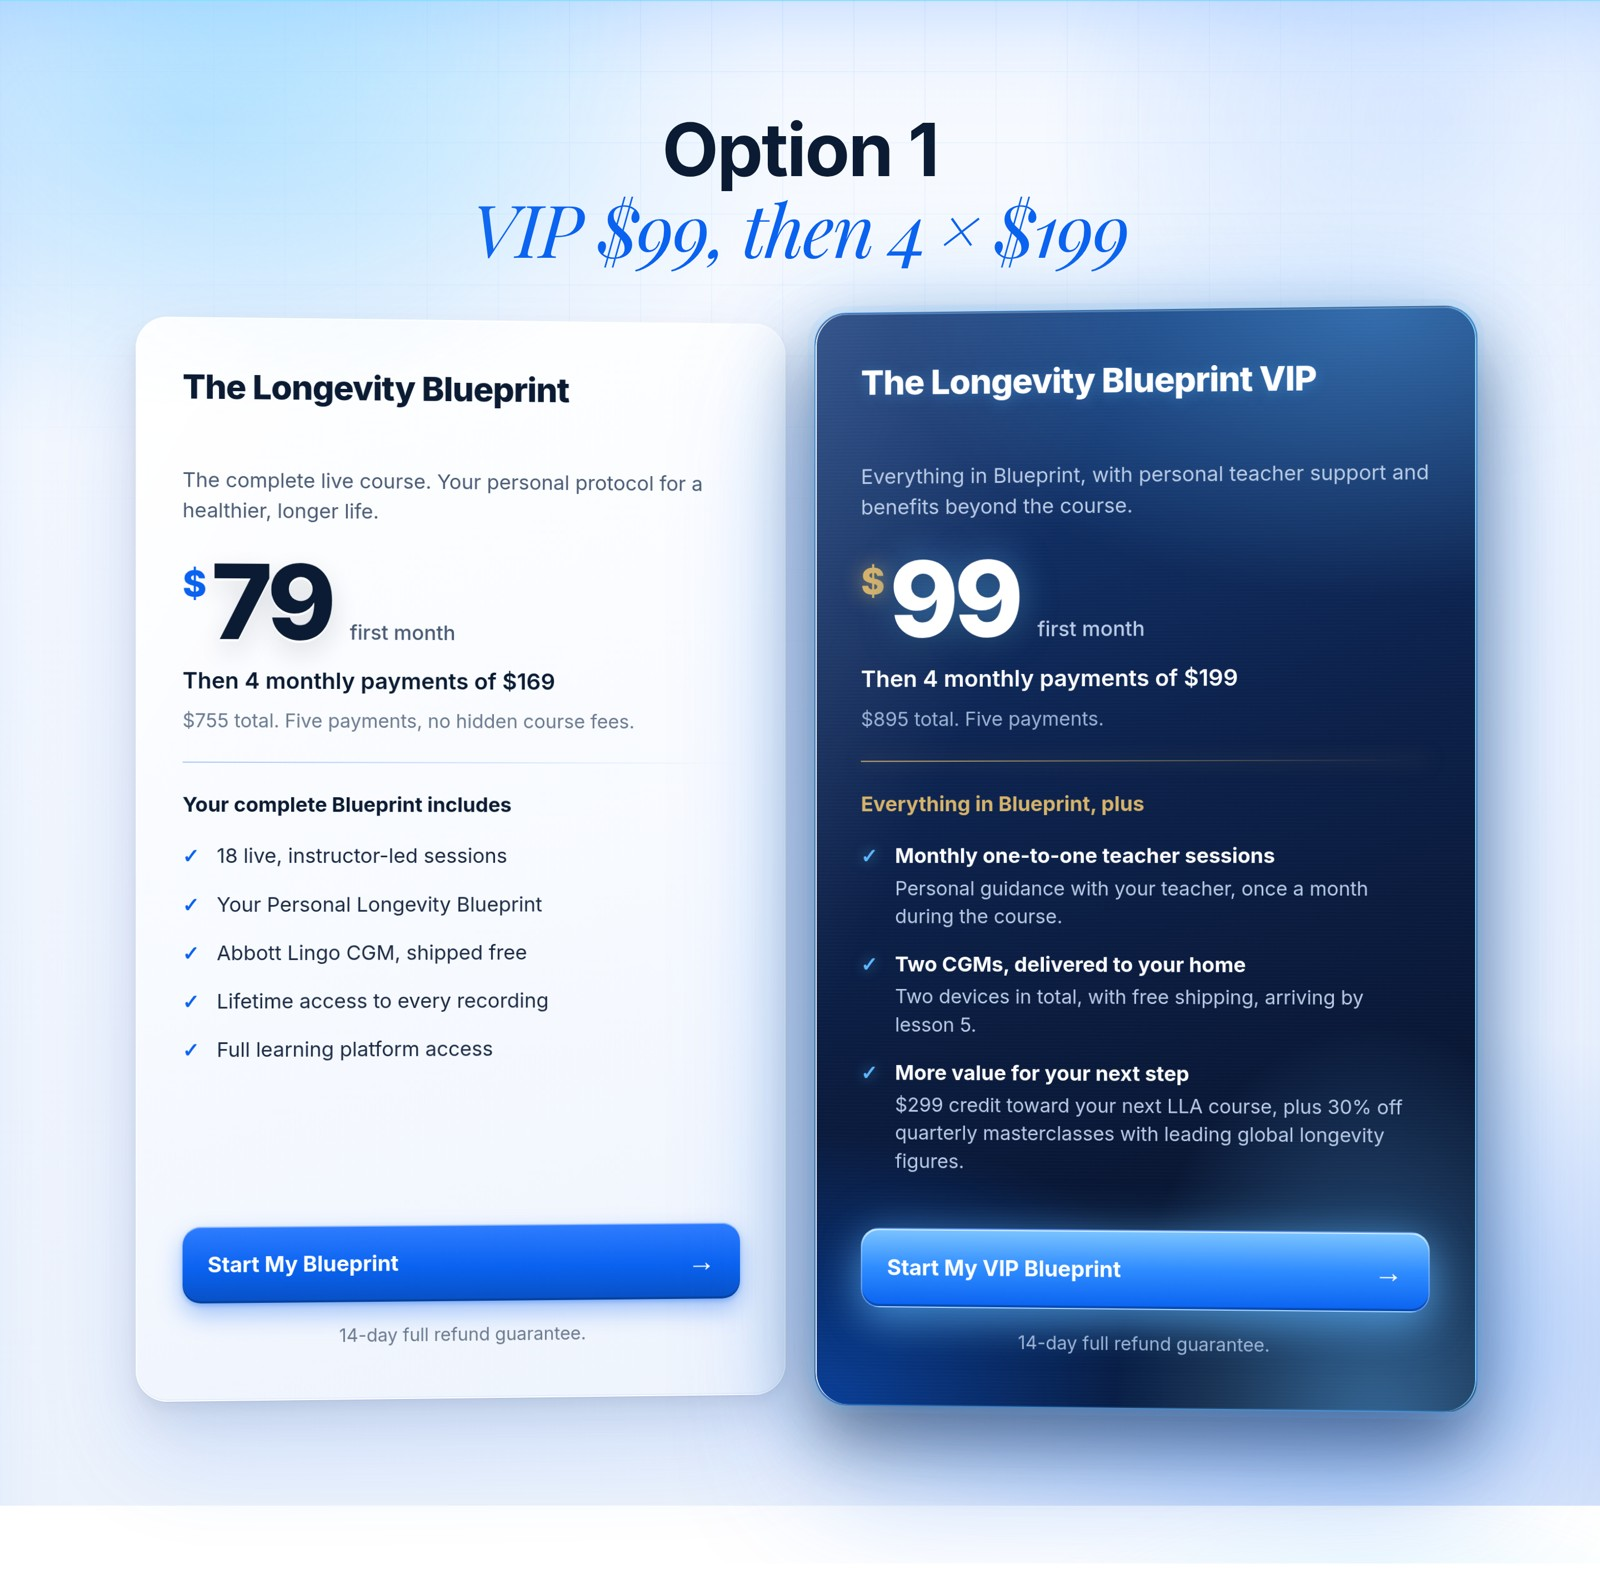
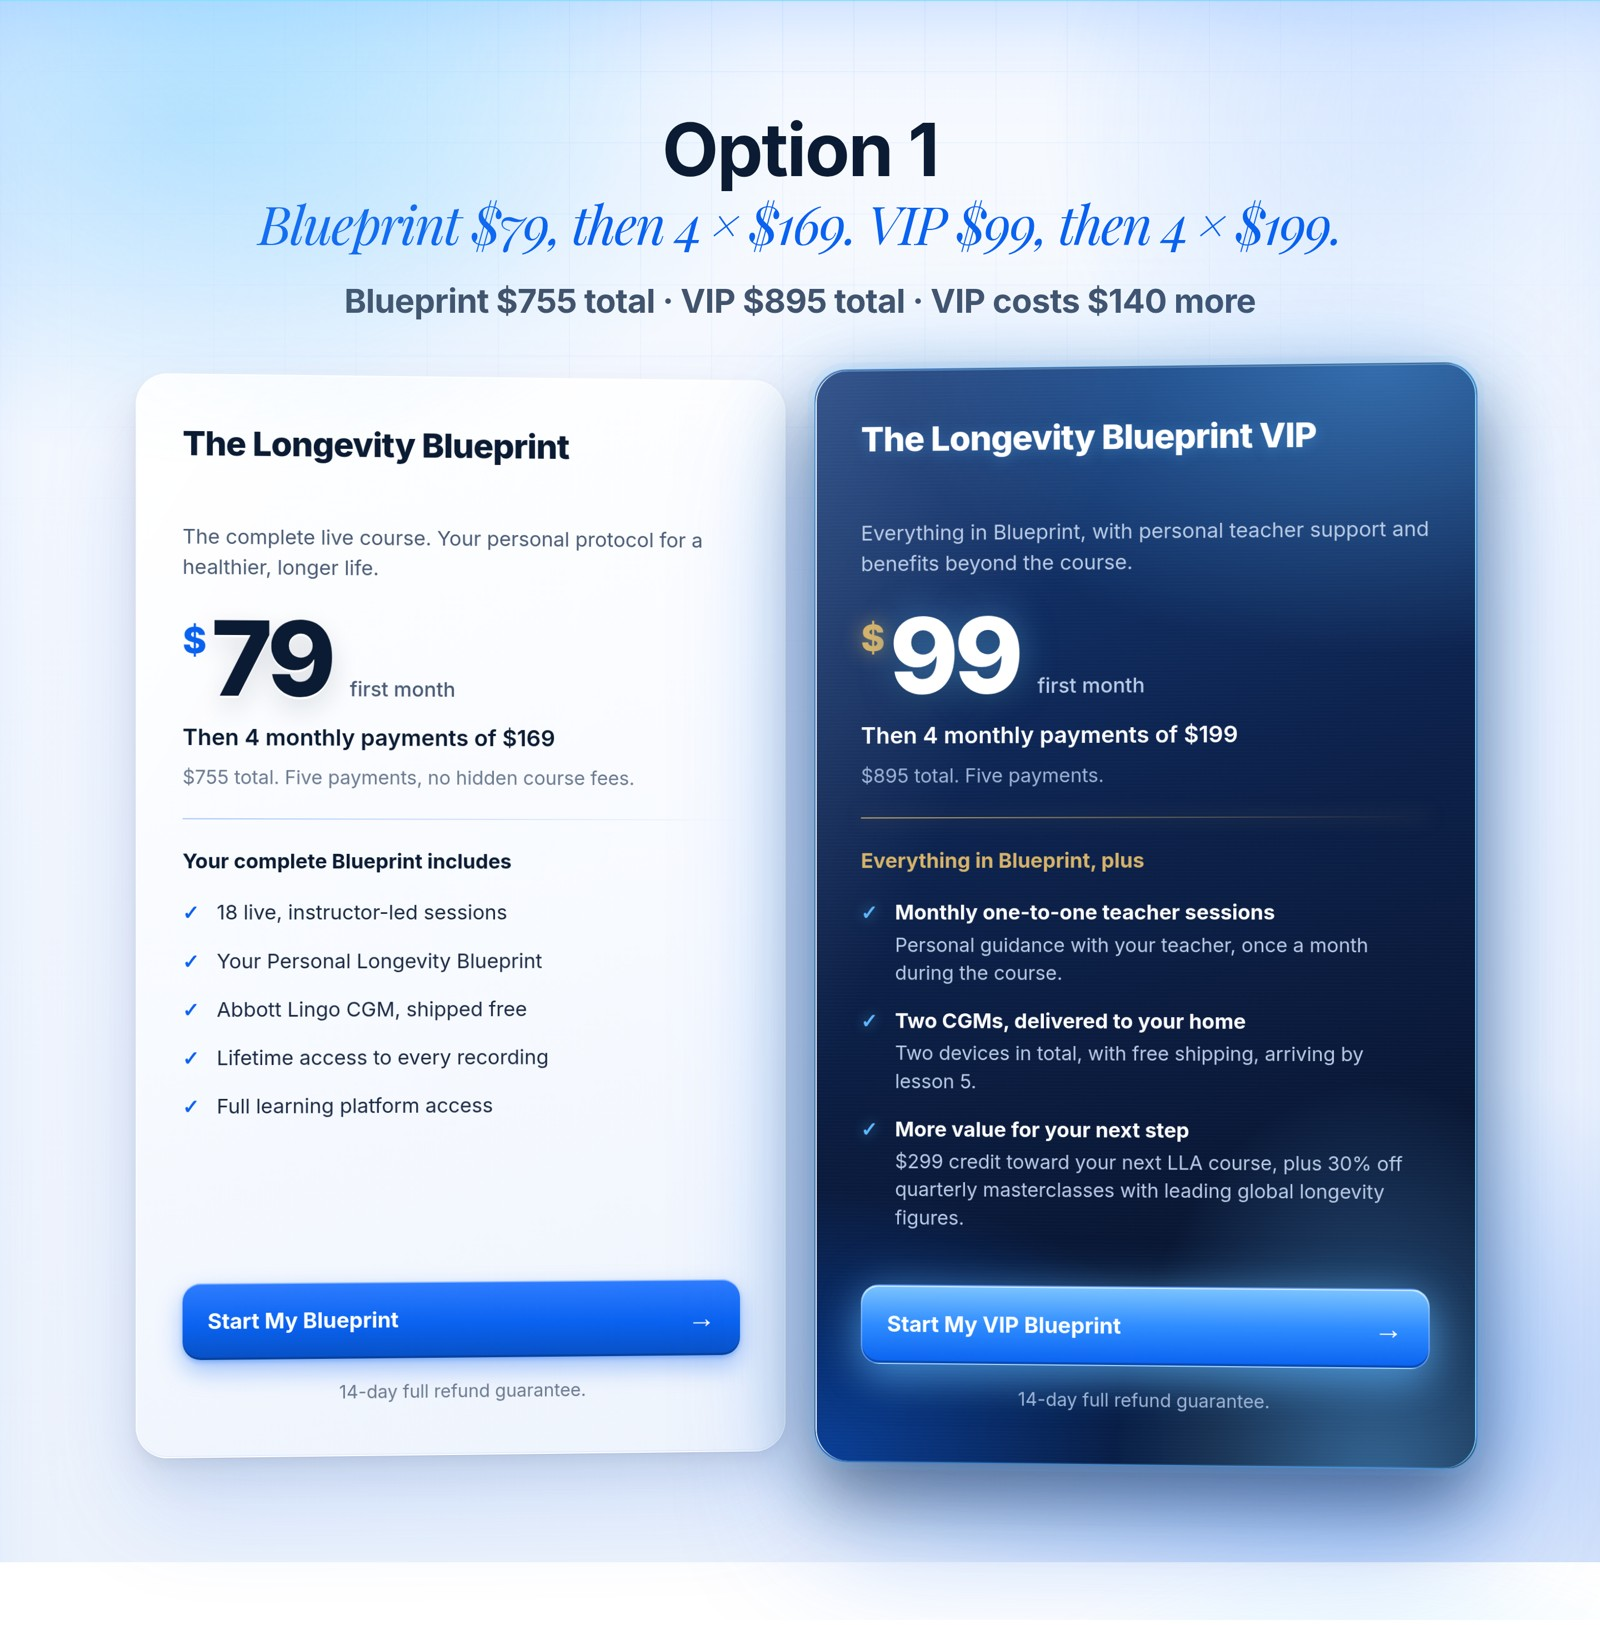
headlines: full pricing wording, totals and difference per option

Changed region(s): [[0.0625, 0.0625, 0.9375, 0.9057], [0.0938, 0.7808, 0.4688, 0.9057]]

diff --git a/options/index.html b/options/index.html
@@ -1780,7 +1780,7 @@ body.lla-em-open #et-bumpyard-widget{display:none!important}
   html body#lpRoot #hero .pdp-cine-sub{font-family:'Inter',sans-serif!important;font-style:normal!important;text-transform:none!important}
 }
 </style>
-<link rel="stylesheet" href="../relaunch.css?v=vip199"><style id="opt-only">body>*:not(section.bp-offer):not(script):not(style){display:none!important}body>section.bp-offer{display:block!important}.bp-foot{display:none!important}[class^="lla-cta"],.lla-cta,#llaCta,.lla-sticky-cta,.lla-float-cta,#llaFloatCta,[id^="llaFloat"],.lla-float-cta--home{display:none!important;visibility:hidden!important}</style><link rel="stylesheet" href="../compare/premium.css?v=p4"></head>
+<link rel="stylesheet" href="../relaunch.css?v=vip199"><style id="opt-only">body>*:not(section.bp-offer):not(script):not(style){display:none!important}body>section.bp-offer{display:block!important}.bp-foot{display:none!important}.opt-sum{font-size:clamp(22px,2.2vw,30px)!important;font-weight:700;color:#0B1B33;margin:18px auto 0;text-align:center;letter-spacing:-.4px;max-width:none!important;white-space:nowrap}.bp-heading h2 em{display:block;font-size:.72em;margin-top:6px}[class^="lla-cta"],.lla-cta,#llaCta,.lla-sticky-cta,.lla-float-cta,#llaFloatCta,[id^="llaFloat"],.lla-float-cta--home{display:none!important;visibility:hidden!important}</style><link rel="stylesheet" href="../compare/premium.css?v=p4"></head>
 <body id="lpRoot">
 <!-- Google Tag Manager (noscript) -->
 
@@ -2580,7 +2580,7 @@ var vids=r.querySelectorAll('video');if('IntersectionObserver' in window){var io
 <section id="offer" data-option="1" class="bp-offer fn-section pr-light is-light">
  <div class="bp-wrap">
   <div class="bp-heading">
-   <h2>Option 1<br><em>VIP $99, then 4 × $199</em></h2>
+   <h2>Option 1<br><em>Blueprint $79, then 4 × $169. VIP $99, then 4 × $199.</em></h2><p class="opt-sum">Blueprint $755 total · VIP $895 total · VIP costs $140 more</p>
    
   </div>
   <div class="bp-grid">
@@ -2624,7 +2624,7 @@ var vids=r.querySelectorAll('video');if('IntersectionObserver' in window){var io
 </section><section id="offer" data-option="2" class="bp-offer fn-section pr-light is-light">
  <div class="bp-wrap">
   <div class="bp-heading">
-   <h2>Option 2<br><em>VIP $129, then 4 × $229</em></h2>
+   <h2>Option 2<br><em>Blueprint $79, then 4 × $169. VIP $129, then 4 × $229.</em></h2><p class="opt-sum">Blueprint $755 total · VIP $1,045 total · VIP costs $290 more</p>
    
   </div>
   <div class="bp-grid">
@@ -2668,7 +2668,7 @@ var vids=r.querySelectorAll('video');if('IntersectionObserver' in window){var io
 </section><section id="offer" data-option="3" class="bp-offer fn-section pr-light is-light">
  <div class="bp-wrap">
   <div class="bp-heading">
-   <h2>Option 3<br><em>VIP $99, then 4 × $229</em></h2>
+   <h2>Option 3<br><em>Blueprint $79, then 4 × $169. VIP $99, then 4 × $229.</em></h2><p class="opt-sum">Blueprint $755 total · VIP $1,015 total · VIP costs $260 more</p>
    
   </div>
   <div class="bp-grid">

diff --git a/compare/index.html b/compare/index.html
@@ -1,4 +1,4 @@
 <!doctype html><html lang="en"><head><meta charset="utf-8"><meta name="viewport" content="width=device-width,initial-scale=1"><meta name="robots" content="noindex"><title>Blueprint VIP pricing · 3 options</title>
 <style>body{margin:0;background:#F3F7FC;font-family:-apple-system,Inter,sans-serif;color:#0B1B33}.w{max-width:1100px;margin:0 auto;padding:16px 10px 40px}h1{font-size:22px;margin:6px 6px 14px;letter-spacing:-.3px}img{width:100%;display:block;border-radius:14px;box-shadow:0 6px 24px rgba(11,27,51,.12);margin-bottom:18px;background:#fff}</style></head>
 <body><div class="w"><h1>Blueprint VIP pricing · 3 options</h1>
-<img src="option-1.jpg?v=3" alt="Option 1: VIP $99, then 4 × $199"><img src="option-2.jpg?v=3" alt="Option 2: VIP $129, then 4 × $229"><img src="option-3.jpg?v=3" alt="Option 3: VIP $99, then 4 × $229"></div></body></html>
+<img src="option-1.jpg?v=4" alt="Option 1: VIP $99, then 4 × $199"><img src="option-2.jpg?v=4" alt="Option 2: VIP $129, then 4 × $229"><img src="option-3.jpg?v=4" alt="Option 3: VIP $99, then 4 × $229"></div></body></html>
